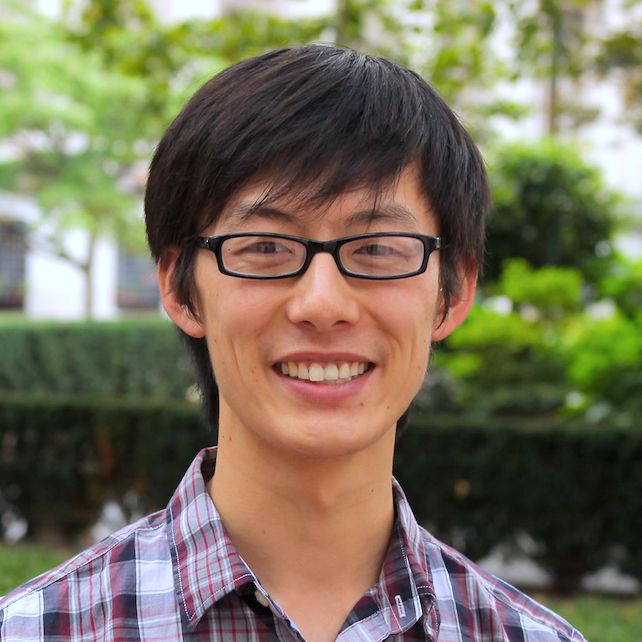
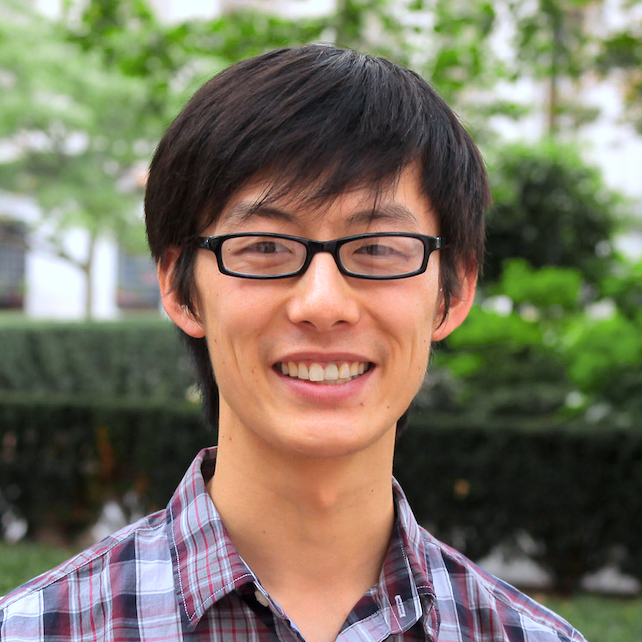
updated website

diff --git a/include/style.css b/include/style.css
@@ -396,7 +396,7 @@ table.row td.topic {
   height: 175px;
   background-image: url(../images/me.jpg);
   background-image:url(../images/mesquare.png);
-  background-image:url(../images/me_faculty.png);
+  background-image:url(../images/me_faculty2.png);
   background-size: 175px;
   background-repeat: no-repeat;
   background-position: 0;
